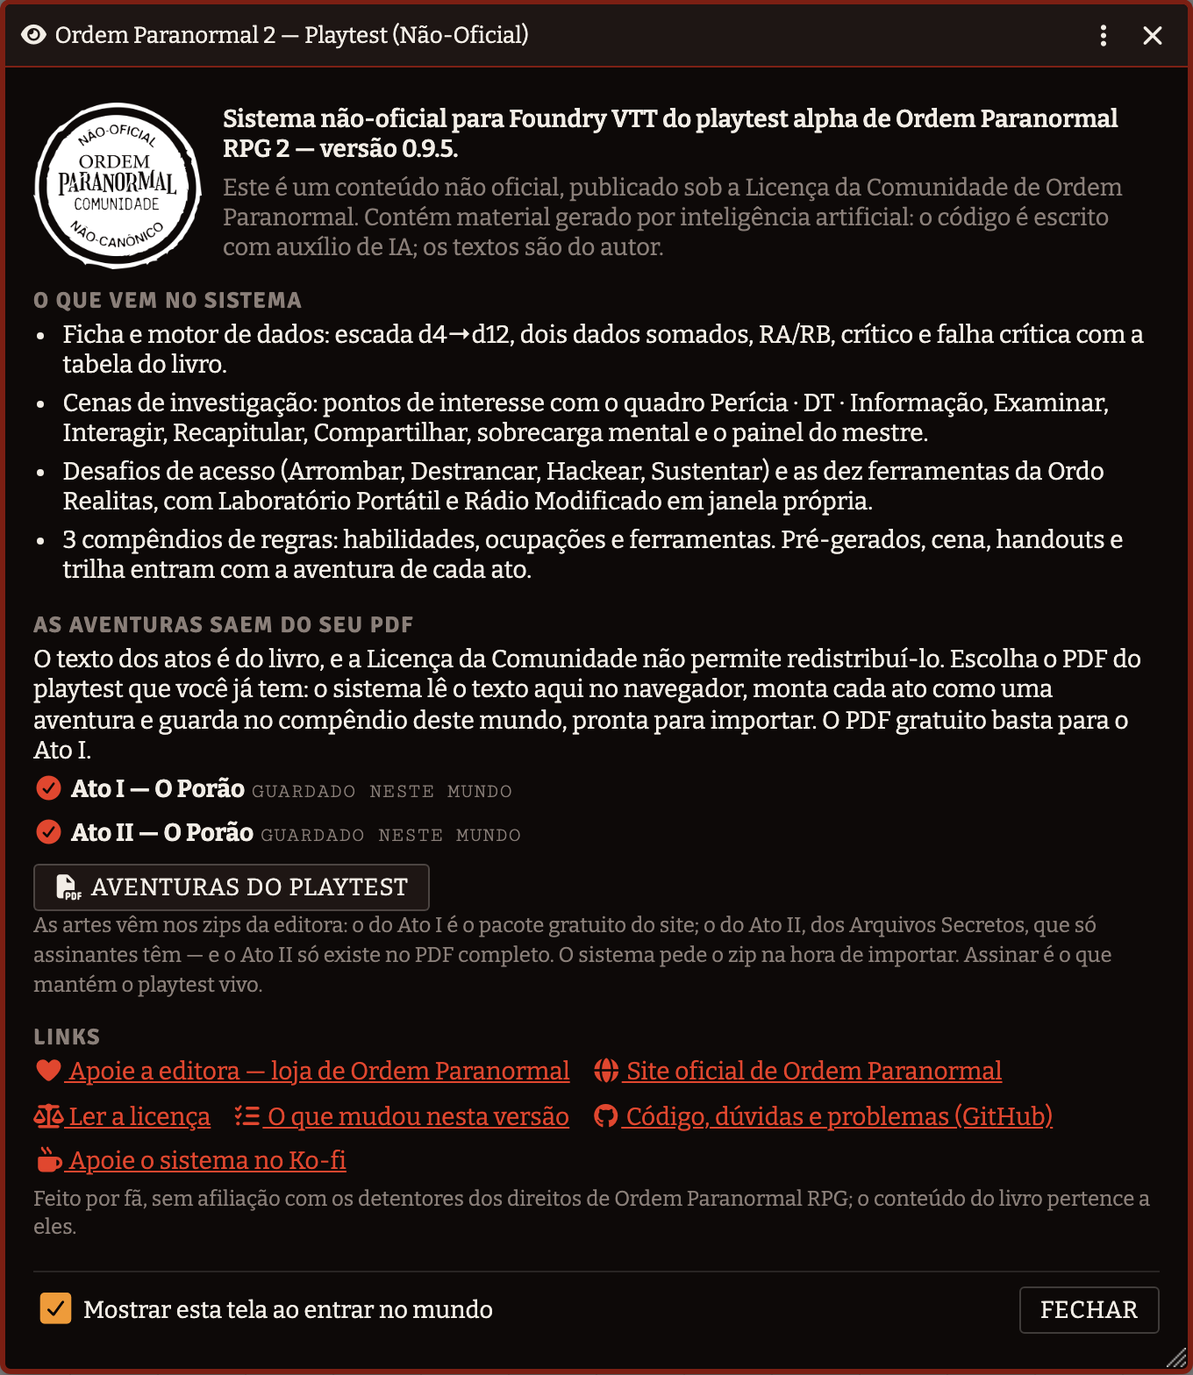
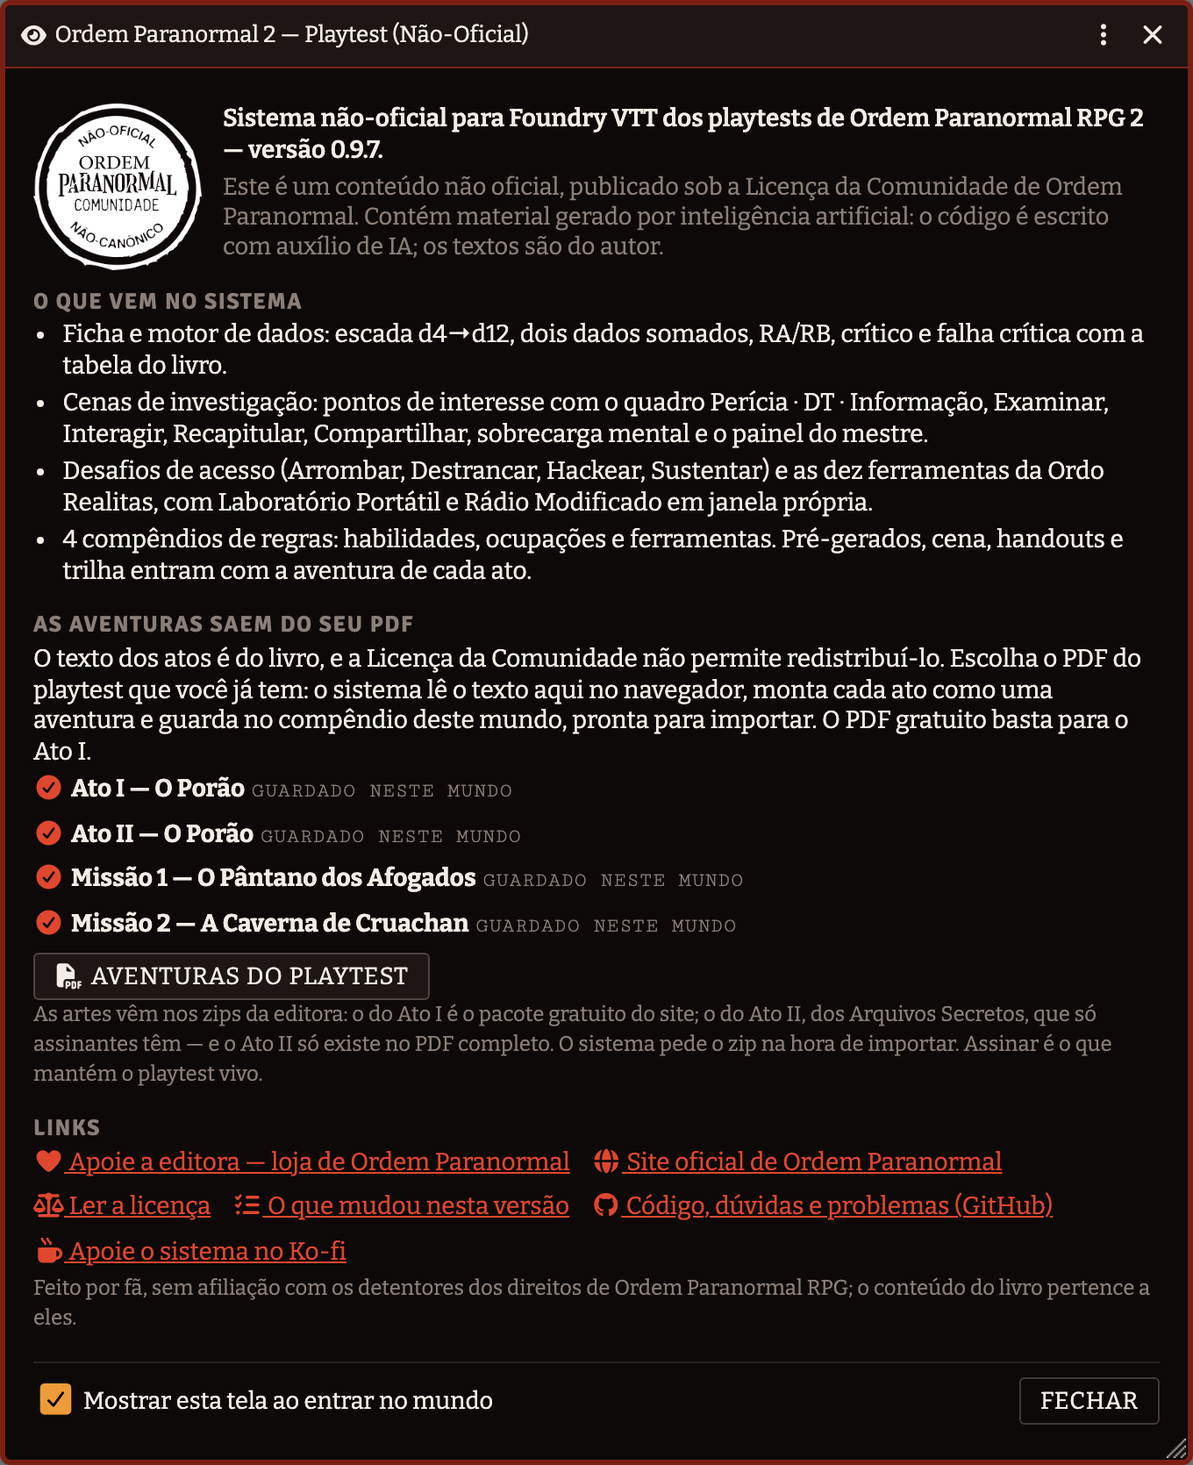
docs(vigilia): fecha a Fase 5 no roadmap e documenta o modo Vigília
README, changelog, arquitetura e lacunas com o que entrou e as decisões de regra. A convenção
de que automação nunca é o único caminho vai para o CLAUDE.md. Os prints mudaram junto com as
telas, e o painel de ação ganha o dele.

Fica aberto no roadmap o que nenhum teste cobre: a mesa de verdade e o PDF gratuito.

diff --git a/docs/projeto/ROADMAP.md b/docs/projeto/ROADMAP.md
@@ -160,26 +160,29 @@ do zip da editora, que o mestre entrega na hora de importar.
 ## Fase 5 — Modo Vigília (playtest beta, *Contos da Vigília*)
 
 Regras: `docs/regras/spec-beta.md`. Impacto: `docs/regras/alpha-para-beta.md`.
-Entra em paralelo: o modo moderno (Atos I e II) não perde nada. Feitos: fontes, decisão e M1.
+Entra em paralelo: o modo moderno (Atos I e II) não perde nada. **Requisito que atravessa tudo:** automação é
+bem-vinda, nunca o único caminho. Todo estado se edita à mão e efeito na ficha vem por clique (`docs/projeto/ARQUITETURA.md`).
 
 - [x] **Fontes.** PDF e fichas extraídos e conferidos, spec, lacunas, catálogo das missões
 - [x] **Decisão:** dois modos em paralelo, moderno e Vigília, com importação de PDF e zip dos dois
 - [x] **M1 — Modos:** setting `modo`; perícias em união, Aptidões e rótulos por modo; janela de aventuras agrupada por modo, com a pergunta ao importar aventura de outro modo
-- [ ] **M2 — Motor:** modificador fixo, crítico no dano, dado de pavor, marcadores de Análise
-- [ ] **M3 — Ficha e itens:** relações, armadura, equipamento com mecânica, NPC com RD e ações
-- [ ] **M4 — Combate:** tracker por fases, ações, manobras, condições, lesão e trauma; no modo moderno, opção de mundo ligada por padrão (desligada, volta o combate simplificado)
-- [ ] **M5 — Cenas de ação:** perseguição, furtividade, equilíbrio, escalar; Investigar com Observar
-- [ ] **M6 — Missão 1:** extrator, montagem, extras, e2e. **Dá para jogar aqui:** gratuita, usa tudo menos furtividade
-- [ ] **M7 — Missão 2:** extrator, montagem, extras, e2e nas duas versões
+- [x] **M2 — Motor:** modificador fixo, crítico no dano, dado de pavor, marcadores de Análise
+- [x] **M3 — Ficha e itens:** relações, armadura, equipamento com mecânica, NPC com RD e ações
+- [x] **M4 — Combate:** tracker por fases, ações, manobras, condições, lesão e trauma; no modo moderno, opção de mundo ligada por padrão (desligada, volta o combate simplificado)
+- [x] **M5 — Cenas de ação:** perseguição, furtividade, equilíbrio, escalar; Investigar com Observar
+- [x] **M6 — Missão 1:** extrator, montagem, extras, e2e. **Dá para jogar aqui:** gratuita, usa tudo menos furtividade
+- [x] **M7 — Missão 2:** extrator, montagem, extras, e2e nas duas versões
 
-**Apontado na revisão do M1, para os marcos seguintes:**
+**Falta, para fechar:** a rodada de mesa de verdade, do início ao epílogo das duas missões. O e2e importa as duas e
+joga um trecho de cada cena; o roteiro de dois clientes joga combate e furtividade do lado do jogador, não a
+perseguição nem a Missão 2 inteira. Nenhum teste vê se o ritmo do combate por fases funciona na mesa. Falta também
+conferir o PDF gratuito do beta (só a Missão 1), que não estava disponível: o extrator foi exercitado no completo.
 
-- **M3:** "Ocupação" ainda fixa em `Habilidade.Origem.ocupacao` e em `OP2.Ocupacao.*`; `oficio` sem campo para a
+**Apontado na revisão do M1 e ainda aberto:**
+
+- "Ocupação" ainda fixa em `Habilidade.Origem.ocupacao` e em `OP2.Ocupacao.*`; `oficio` sem campo para a
   especialização (`Ofício (metalurgia)`); NPC grava o rótulo traduzido, então não acompanha o modo.
-- **M5:** Hackear e ferramentas rolam `tecnologia`, oculta no Vigília: esconder as abordagens lá.
-- **M6:** a janela só lê um PDF por vez e no primeiro grupo. Com dois grupos, ligar botão, input, progresso e
-  estado por modo, e passar o modo à montagem.
-- **Geral:** `game.ready` chega antes dos partials (`precarregarTemplates` sai no `init`, sem quem aguarde), e
+- `game.ready` chega antes dos partials (`precarregarTemplates` sai no `init`, sem quem aguarde), e
   uma janela aberta nesse intervalo falha. Preexistente, janela de cerca de 1 s.
 
 **Pronto quando:** as duas missões jogam do início ao epílogo com dois clientes, em v13 e v14, a

diff --git a/README.md b/README.md
@@ -7,7 +7,8 @@
 > Feito por fã, sem afiliação com os detentores dos direitos; o conteúdo do livro
 > pertence a eles — e por isso nem o texto nem as artes do livro vêm no pacote.
 
-Sistema para **Foundry VTT** do playtest alpha de *Ordem Paranormal RPG 2*.
+Sistema para **Foundry VTT** dos playtests de *Ordem Paranormal RPG 2*: o alpha, no **modo moderno** (Atos I e II), e
+o beta, *Contos da Vigília*, no **[modo Vigília](#modo-vigília)** (Missões 1 e 2).
 
 > Projeto não-oficial, feito por fã. Sem afiliação, patrocínio ou endosso dos detentores
 > de direitos de Ordem Paranormal RPG. Não distribui textos, artes nem conteúdo protegido
@@ -188,8 +189,8 @@ no braço.
 
 ## Combate e ferimentos
 
-Versão simplificada e explicitamente temporária do playtest (§8), isolada para ser
-trocada inteira quando sair a definitiva.
+Esta é a versão simplificada do alpha (§8). O combate novo, por fases ([modo Vigília](#modo-vigília)), vem ligado
+por padrão também no modo moderno; esta aqui volta quando se desliga *Combate novo no modo moderno*.
 
 ![Card de ataque](docs/img/card-ataque.png)
 
@@ -200,6 +201,30 @@ playtest: vencendo, ninguém sofre nem causa dano.
 Zerar PV pede teste de **Vigor**; zerar PD pede **Disciplina**. A DT escala 7 → 10 → 13
 → 16 por teste já feito, e a consequência da falha no trauma é configurável, porque o
 próprio texto avisa que vai mudar.
+
+## Modo Vigília
+
+O playtest beta, *Contos da Vigília*, é outro jogo no mesmo sistema: passa-se no passado, com perícias, regras e
+missões próprias. O setting de mundo **Modo de jogo** escolhe entre **moderno** (Atos I e II) e **Vigília**
+(Missões 1 e 2). A ficha guarda as perícias dos dois, e o modo decide o que aparece.
+
+![Painel de ação](docs/img/painel-acao.png)
+
+**As missões saem do seu material**, como os atos: em *Aventuras do playtest*, escolha o PDF do mestre e, depois, o
+zip da editora. Cada missão vem com cena, marcadores, pontos, desafios, pré-gerados, roteiro e as cenas de ação.
+
+**Uma cena de ação** é um ator do tipo `cena-acao`: um combate, uma perseguição ou uma furtividade. O mestre a
+inicia pela ficha dela, e o painel de ação mostra quem participa, a fase e o que cada um pode fazer.
+
+**Dá para jogar tudo à mão.** A automação propõe e quem clica aplica: condição, derrubar, descartar dado e dano são
+botões do card, nunca efeito sozinho. No painel e na aba Condição da ficha, tudo se edita: fase, rodada, "já agiu",
+PV, PD, pavor, marcadores, condições, avanço, fôlego, dados de esconderijo, lesões, traumas e relações. O ataque
+aceita ajuste de DT e de passos, e o dano aceita "Outro valor…".
+
+**O combate novo também vale no modo moderno**, ligado por padrão. Desligue *Combate novo no modo moderno* nos
+settings do mundo para voltar ao combate simplificado.
+
+Onde o beta se contradiz ou deixa regra de fora, a decisão está em [docs/regras/LACUNAS.md](docs/regras/LACUNAS.md).
 
 ## Compêndios do Ato I
 
@@ -501,6 +526,7 @@ Em desenvolvimento, versão 0.0.1.
 | 3 | Desafios (Arrombar, Destrancar, Hackear, genérico), Alcançar, Sustentar, ferramentas da Ordo Realitas | pronta |
 | 4 | Testes opostos, Ajuda, usar habilidades e itens, combate simplificado, ferimentos e traumas | pronta |
 | Compêndios | Ato I e Ato II montados do PDF do mestre, dentro do Foundry; as artes dos dois atos pelos zips da editora | prontos |
+| 5 | Modo Vigília (playtest beta): combate por fases, perseguição, furtividade, relações, as duas missões | pronta para teste de mesa |
 
 O playtest é explicitamente parcial: NEX, progressão por nível e traumas permanentes
 ainda não foram publicados. Onde o texto é ambíguo ou se contradiz, o sistema expõe um

diff --git a/AGENTS.md b/AGENTS.md
@@ -41,13 +41,14 @@ pré-gerados, cena, handouts e trilha vão em `assets/aventura/fontes-ato-*.json
 dentro da aventura. O selo da licença (`assets/licenca/`) é o único arquivo da editora
 no pacote. Pronto para a rodada de teste manual que fecha a v1.
 **Versão:** 0.0.1 (a v1 é decisão de release).
-**Próximo:** Fase 5, o **modo Vigília** (playtest beta: combate por fases, perseguição,
-furtividade, medo, relações; duas missões medievais), em paralelo ao **modo moderno** (alpha,
-Atos I e II), que não perde nada; o combate novo vale nos dois, opcional no moderno. Fontes prontas e setting de modo no lugar (M1); as regras do Vigília ainda não
-(`docs/regras/alpha-para-beta.md`). **v13 e v14 exercitados pelo e2e** (13.351 e 14.363: 660 verificações
-cada; `dois-clientes.mjs` confere a visão do jogador) — o bundle da cena leva os dois
-formatos de fundo, e o que só existe no v14 (níveis,
-`Collection#every`, `Note.author`) é tratado com guarda dos dois lados.
+**Fase 5 (modo Vigília):** M1 a M7 feitos. O playtest beta (combate por fases, perseguição,
+furtividade, medo, relações, duas missões medievais) corre em paralelo ao **modo moderno** (alpha, Atos I e
+II), que não perde nada; o combate novo vale nos dois, opcional e ligado por padrão no moderno. As missões
+saem do PDF e dos zips do mestre, como os atos (`module/extrator/missoes.mjs`, `module/aventura/missoes.mjs`).
+O PDF gratuito do beta não estava disponível: o extrator foi exercitado só no completo.
+**Próximo:** a rodada de mesa de verdade. **v13 e v14 exercitados pelo e2e** (13.351 e 14.363, com o PDF e
+os zips reais: 752 verificações cada; `dois-clientes.mjs`, 26, confere a visão do jogador) — o bundle da cena leva os dois formatos de
+fundo, e o que só existe no v14 (níveis, `Collection#every`, `Note.author`) é tratado com guarda dos dois lados.
 
 ## Convenções
 
@@ -59,6 +60,9 @@ formatos de fundo, e o que só existe no v14 (níveis,
   `rotuloDePericia()`. A ficha guarda as perícias dos dois, e o modo só decide o que aparece.
 - **`adventure.import()` não espera:** com extras, o hook cancela e segue em segundo plano. Quem
   precisa do resultado (a troca de modo recarrega a página) usa `importarAventura()`.
+- **Automação nunca é o único caminho.** Efeito na ficha vem por clique, todo estado se edita, toda
+  rolagem aceita ajuste, e nenhuma janela abre ou cena encerra sozinha (`docs/projeto/ARQUITETURA.md`). Vale
+  para tudo que entrar daqui em diante.
 - **Sem Active Effects** — a escada de dados não é aditiva. Passos vão para `stepMod` e
   são resolvidos em `prepareDerivedData()`. É também o que mantém v13 e v14 compatíveis.
 - **ApplicationV2 / DocumentSheetV2** em tudo. Nada de AppV1.
@@ -209,6 +213,10 @@ O servidor do Foundry v14 exige **Node 24**. O `npm test` do projeto roda em Nod
 - `npc.test.mjs` — a perícia do NPC a partir do diálogo: chave do sistema, Aptidão sem
   ponto na chave, "Outra" em slug.
 - `acoes-app.test.mjs` — a janela de ações fecha depois da ação e fica quando cancelada.
+- `modo.test.mjs` — perícias, Aptidões e rótulos por modo.
+- `motor-vigilia.test.mjs` — modificador fixo, pavor, crítico, dano, RD, armadura, relações, condições.
+- `cenas-acao.test.mjs` — perseguição (cortes, fôlego), furtividade (esconderijo, procura), equilíbrio, escalar.
+- `missoes.test.mjs` — extrator por geometria e `montarMissao1`/`montarMissao2` com páginas sintéticas.
 - `filtros-painel.test.mjs` — os chips do painel (visibilidade, progresso, mapa, perícia,
   abordagem), a ordem e o progresso do ponto.
 

diff --git a/CLAUDE.md b/CLAUDE.md
@@ -40,13 +40,14 @@ pré-gerados, cena, handouts e trilha vão em `assets/aventura/fontes-ato-*.json
 dentro da aventura. O selo da licença (`assets/licenca/`) é o único arquivo da editora
 no pacote. Pronto para a rodada de teste manual que fecha a v1.
 **Versão:** 0.0.1 (a v1 é decisão de release).
-**Próximo:** Fase 5, o **modo Vigília** (playtest beta: combate por fases, perseguição,
-furtividade, medo, relações; duas missões medievais), em paralelo ao **modo moderno** (alpha,
-Atos I e II), que não perde nada; o combate novo vale nos dois, opcional no moderno. Fontes prontas e setting de modo no lugar (M1); as regras do Vigília ainda não
-(`docs/regras/alpha-para-beta.md`). **v13 e v14 exercitados pelo e2e** (13.351 e 14.363: 660 verificações
-cada; `dois-clientes.mjs` confere a visão do jogador) — o bundle da cena leva os dois
-formatos de fundo, e o que só existe no v14 (níveis,
-`Collection#every`, `Note.author`) é tratado com guarda dos dois lados.
+**Fase 5 (modo Vigília):** M1 a M7 feitos. O playtest beta (combate por fases, perseguição,
+furtividade, medo, relações, duas missões medievais) corre em paralelo ao **modo moderno** (alpha, Atos I e
+II), que não perde nada; o combate novo vale nos dois, opcional e ligado por padrão no moderno. As missões
+saem do PDF e dos zips do mestre, como os atos (`module/extrator/missoes.mjs`, `module/aventura/missoes.mjs`).
+O PDF gratuito do beta não estava disponível: o extrator foi exercitado só no completo.
+**Próximo:** a rodada de mesa de verdade. **v13 e v14 exercitados pelo e2e** (13.351 e 14.363, com o PDF e
+os zips reais: 752 verificações cada; `dois-clientes.mjs`, 26, confere a visão do jogador) — o bundle da cena leva os dois formatos de
+fundo, e o que só existe no v14 (níveis, `Collection#every`, `Note.author`) é tratado com guarda dos dois lados.
 
 ## Convenções
 
@@ -58,6 +59,9 @@ formatos de fundo, e o que só existe no v14 (níveis,
   `rotuloDePericia()`. A ficha guarda as perícias dos dois, e o modo só decide o que aparece.
 - **`adventure.import()` não espera:** com extras, o hook cancela e segue em segundo plano. Quem
   precisa do resultado (a troca de modo recarrega a página) usa `importarAventura()`.
+- **Automação nunca é o único caminho.** Efeito na ficha vem por clique, todo estado se edita, toda
+  rolagem aceita ajuste, e nenhuma janela abre ou cena encerra sozinha (`docs/projeto/ARQUITETURA.md`). Vale
+  para tudo que entrar daqui em diante.
 - **Sem Active Effects** — a escada de dados não é aditiva. Passos vão para `stepMod` e
   são resolvidos em `prepareDerivedData()`. É também o que mantém v13 e v14 compatíveis.
 - **ApplicationV2 / DocumentSheetV2** em tudo. Nada de AppV1.
@@ -208,6 +212,10 @@ O servidor do Foundry v14 exige **Node 24**. O `npm test` do projeto roda em Nod
 - `npc.test.mjs` — a perícia do NPC a partir do diálogo: chave do sistema, Aptidão sem
   ponto na chave, "Outra" em slug.
 - `acoes-app.test.mjs` — a janela de ações fecha depois da ação e fica quando cancelada.
+- `modo.test.mjs` — perícias, Aptidões e rótulos por modo.
+- `motor-vigilia.test.mjs` — modificador fixo, pavor, crítico, dano, RD, armadura, relações, condições.
+- `cenas-acao.test.mjs` — perseguição (cortes, fôlego), furtividade (esconderijo, procura), equilíbrio, escalar.
+- `missoes.test.mjs` — extrator por geometria e `montarMissao1`/`montarMissao2` com páginas sintéticas.
 - `filtros-painel.test.mjs` — os chips do painel (visibilidade, progresso, mapa, perícia,
   abordagem), a ordem e o progresso do ponto.
 

diff --git a/docs/projeto/ARQUITETURA.md b/docs/projeto/ARQUITETURA.md
@@ -31,6 +31,7 @@ sheets/ · dialogs · chat   apresentação
 | `module/sheets/` | Fichas de ator e item. |
 | `module/ui/` | Ícones de dado, helpers de Handlebars, listeners de chat, socket, atalhos de teclado (`atalhos.mjs`: I abre o painel, Shift+I as ações). `zip.mjs` (leitor de zip puro) e `extras-aventura.mjs` (o importador que pede o zip da editora, sobe para a pasta do mundo e reescreve os caminhos). |
 | `module/cena/` | Cena: investigação ativa, painel, rodadas (sobrecarga e roteiro por rodada), ações de investigação/desafio/ferramenta/combate/ajuda, os três apps de minigame (Destrancar, Laboratório, Rádio), Ímpeto, ferimentos e queda. Regras puras em `investigacao.mjs`, `desafios.mjs`, `combate.mjs`, `ajuda.mjs`, `ferimentos.mjs`, `leitura-ferramenta.mjs` (a parte do mestre numa leitura); os filtros do painel em `filtros-painel.mjs`; o setor de ferramentas como painel e ficha o mostram em `setor-ferramentas.mjs`. |
+| `module/vigilia/` | O beta. Regra pura: `combate.mjs`, `dano.mjs`, `relacoes.mjs`, `perseguicao.mjs`, `furtividade.mjs`. Foundry: `cena-acao.mjs` (estado da cena de ação), `acoes-combate.mjs`, `acoes-perseguicao.mjs`, `acoes-furtividade.mjs`, `acoes-desafio.mjs`, `npc.mjs`, `queda.mjs` (lesão, trauma, morte), `painel-acao.mjs`, `acoes-chat.mjs` e `acoes-ficha.mjs` (os botões), `card.mjs`. |
 | `module/settings/` | Registro dos settings. Um por lacuna do playtest. |
 | `module/tests/` | `node --test`, sem runner externo. |
 | `templates/partials/` | Peças reutilizadas: controle de dado, linha de perícia, trilha de recurso. |
@@ -46,6 +47,14 @@ sheets/ · dialogs · chat   apresentação
 | `assets/aventura/` | Os `fontes-ato-*.json` que a janela de aventuras busca com `fetch`. Gerados no `pack:build`, fora do git. |
 
 ## Decisões que valem repetir
+
+### Automação nunca é o único caminho
+
+O sistema não garante que a automação cobre todo caso, então a mesa sempre tem a saída manual. Três regras
+do modo Vigília: **efeito na ficha vem por clique** (o card propõe condição, derrubar, descartar dado, e
+quem clica aplica); **todo estado se edita** (fase, rodada, "já agiu", PV, PD, pavor, marcadores, condições,
+avanço, fôlego, esforço, dados de esconderijo, relações, lesões, traumas); **toda rolagem aceita ajuste** (DT
+e passos no diálogo, "Outro valor…" no dano). Nenhuma janela abre sozinha e nenhuma cena se encerra sozinha.
 
 **A aventura nasce no navegador, do PDF do mestre.** O texto do livro não pode viajar no
 pacote (Licença da Comunidade), e cifrar o conteúdo com uma chave tirada do PDF não

diff --git a/docs/regras/LACUNAS.md b/docs/regras/LACUNAS.md
@@ -519,9 +519,9 @@ lado.
 
 # Playtest beta
 
-Levantado na leitura integral do PDF v1.0 (`docs/regras/spec-beta.md`). **Nada implementado:** o
-default é a proposta para quando a regra entrar no código. Vale a regra da casa: texto normativo
-acima de tabela-resumo, e erro do livro entra sem apagar nada.
+Levantado na leitura integral do PDF v1.0 (`docs/regras/spec-beta.md`). Os defaults abaixo estão
+implementados (Fase 5). Vale a regra da casa: texto normativo acima de tabela-resumo, e erro do livro
+entra sem apagar nada.
 
 ## Beta: contradições de regra
 
@@ -555,6 +555,14 @@ acima de tabela-resumo, e erro do livro entra sem apagar nada.
 | **Destrancar o baú** | Quatro d12 com senha impressa, sem máximo de tentativas (p. 65); a regra (p. 16) diz que a missão define. | Campo editável, começa sem limite, com aviso. Senha fixa, não rolada. |
 | **Alcance curto e longo, zonas** | Sem distância; zona só citada (p. 69). | Mestre arbitra; sem medição. |
 | **Trilha sonora** | Duas faixas nos zips, sem indicação de uso. | Playlist com as duas, disparo manual. |
+| **Prontidão em teste alheio** | A habilidade vale para o teste de outro ser, e nada diz como se anuncia na mesa. | Sem automação: o jogador avisa, e o mestre rola com o ajuste do diálogo. |
+| **Dano não letal** | A p. 23 define, sem dizer como acumula com o letal. | Sem contador próprio: o card avisa, e o mestre decide. Os PV se editam à mão. |
+| **Abraçar o pavor** | A p. 24 troca o dado por bônus e não diz se o medo acaba de vez ou só naquele teste. | Acaba de vez, como controlar baixa de vez. O dado abraçado conta para o teto de dados. Conferir no feedback. |
+| **Marcador e Prontidão em dado anulado** | Nada exclui. | Podem: mudar o valor pode tirar o dado de baixo do pavor. |
+| **Prontidão, 1× por rodada** | Sem como guardar a rodada fora do combate. | O sistema conta por teste; a mesa cuida da rodada. |
+| **Fôlego na vala (Missão 2)** | "Qualquer ação de perseguição" inclui o teste da vala. | O teste da vala não oferece Fôlego; ajuste de passos no diálogo cobre. |
+| **Esquiva (pré-gerado)** | Ação livre oposta ao ataque, uma vez por rodada. | Só o texto na habilidade: a mesa usa Defender-se no card, sem custo de ação. |
+| **Fintar e Mirar, contra quem** | Valem contra um alvo. | A condição não guarda o alvo: o diálogo do ataque traz a caixa marcada, e quem joga desmarca se for outro. |
 
 ## Beta: erros de diagramação e cópia
 

diff --git a/CHANGELOG.md b/CHANGELOG.md
@@ -5,6 +5,28 @@ Versões seguem [SemVer](https://semver.org/lang/pt-BR/).
 
 ## [Não publicado]
 
+**Modo Vigília**, o playtest beta *Contos da Vigília*, em paralelo ao modo moderno. Um setting de mundo escolhe
+o modo; os Atos I e II continuam como estavam.
+
+- **As duas missões, do seu PDF e dos seus zips.** A janela de aventuras tem um grupo por modo. O texto sai do
+  PDF do mestre e as artes do zip da editora, reduzidas ao importar (o mapa cabe em 4096 px, o token em 1024).
+- **Motor do beta:** modificador fixo no teste, dado de pavor (controlar, abraçar ou ignorar), crítico que soma
+  o segundo maior, marcadores de Análise, dados guardados para depois da rolagem.
+- **Combate por fases** (suporte, distância, corpo a corpo, final) com painel de ação, ataque, defesa, manobras,
+  condições, armadura, redução de dano, lesões e traumas.
+- **Perseguição e furtividade** como cenas de ação, com cortes, fôlego, dados de esconderijo e rolagem de procura;
+  equilíbrio, escalar e carregar nos desafios; Observar na investigação.
+- **Ficha:** aba Condição, relações por grau, patamar, armas e armaduras com mecânica, NPC com RD e ataques.
+- **Tudo se faz à mão.** A automação propõe, e quem clica aplica. Fase, rodada, "já agiu", PV, PD, pavor,
+  condições, avanço, fôlego, esconderijo, lesões e relações se editam; ataque aceita ajuste de DT e de passos;
+  dano aceita "Outro valor…".
+
+**Corrigido:** os botões do card de teste (Dano RA, Dano RB, Preencher Ímpeto, Rolar Falha Crítica) saíam sem o id do
+ator e o clique avisava "ator ausente".
+
+**Mudança no modo moderno:** o combate novo vale também lá e vem **ligado por padrão**, inclusive em mundo que já
+existe. Para voltar ao combate simplificado do alpha, desligue *Combate novo no modo moderno* nos settings do mundo.
+
 ## [0.9.7] — 2026-10-03
 
 Retorno de uma mesa que jogou o Ato I:

diff --git a/docs/regras/alpha-para-beta.md b/docs/regras/alpha-para-beta.md
@@ -1,6 +1,6 @@
 # Do alpha para o beta: o que muda no sistema
 
-Análise de impacto, sem nada implementado ainda. Regras em `docs/regras/spec-beta.md`;
+Análise de impacto feita antes da Fase 5, que a implementou (`docs/projeto/ROADMAP.md`). Regras em `docs/regras/spec-beta.md`;
 contradições e defaults em `docs/regras/LACUNAS.md`, seção "Playtest beta".
 
 ## Decisão: dois modos de jogo, em paralelo
